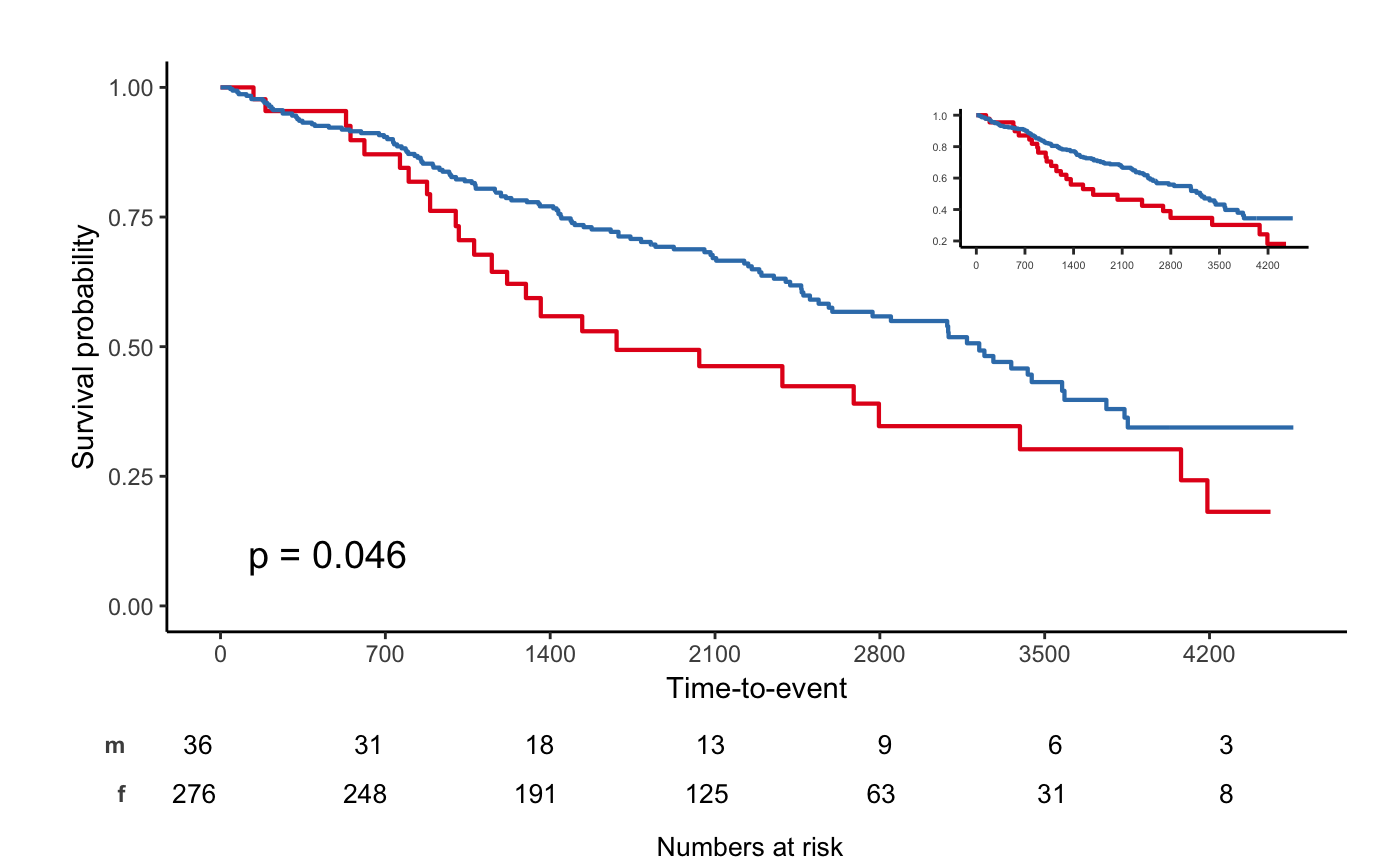
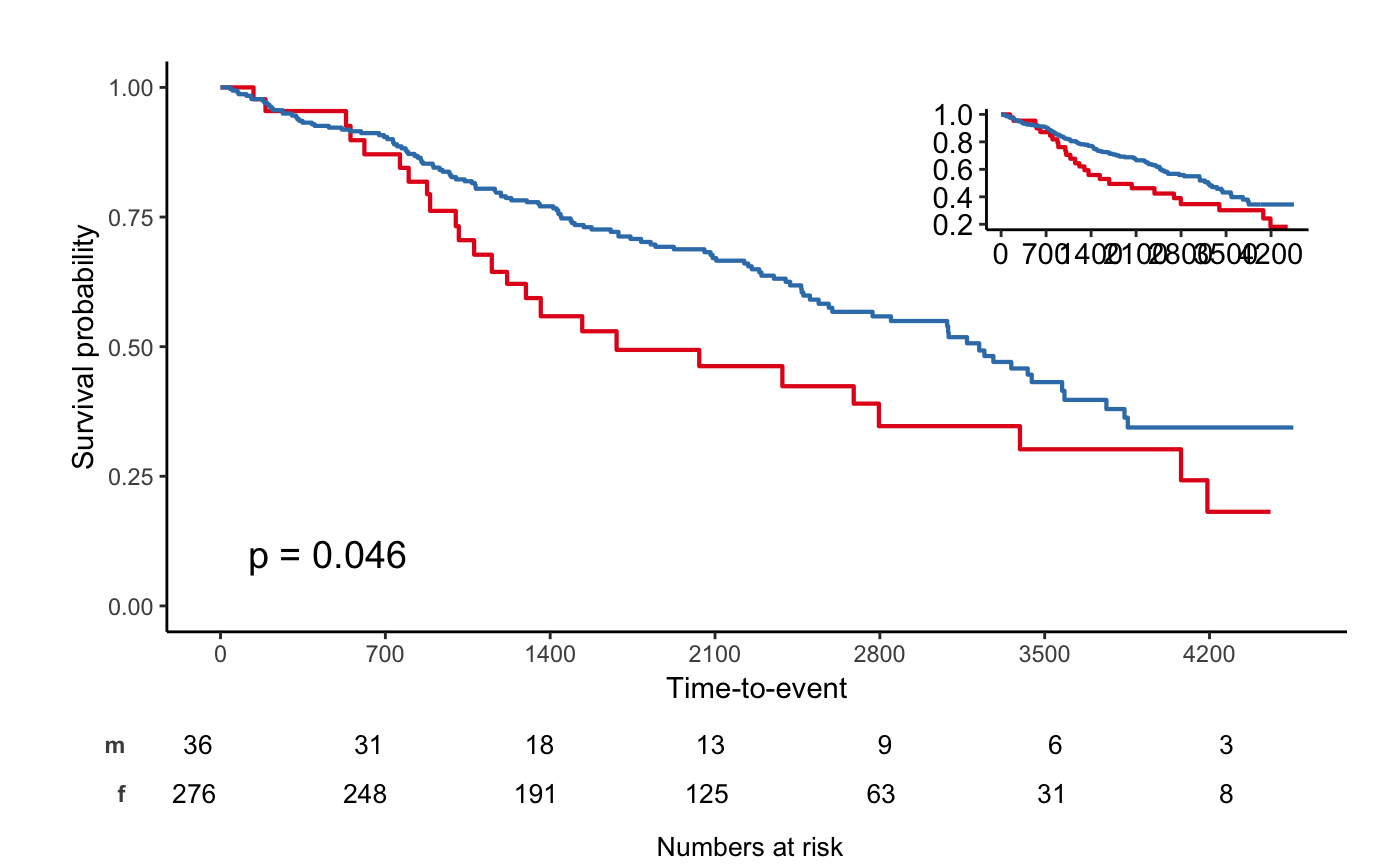
Built site for jskm: 0.5.7@

Changed region(s): [[0.645, 0.1249, 0.9521, 0.3121]]

diff --git a/articles/jskm.html b/articles/jskm.html
@@ -155,7 +155,9 @@ competing risk</p>
 <div id="theme-nejmoa" class="section level3">
 <h3 class="hasAnchor">
 <a href="#theme-nejmoa" class="anchor"></a>Theme Nejmoa</h3>
-<div class="sourceCode" id="cb9"><pre class="sourceCode r"><code class="sourceCode r"><span id="cb9-1"><a href="#cb9-1" tabindex="-1"></a><span class="fu">jskm</span>(fit, <span class="at">theme =</span> <span class="st">"nejm"</span>, <span class="at">nejm.infigure.ratiow =</span> <span class="fl">0.6</span>, <span class="at">nejm.infigure.ratioh =</span> <span class="fl">0.4</span>, <span class="at">nejm.infigure.ylim =</span> <span class="fu">c</span>(<span class="dv">0</span>, <span class="fl">0.7</span>), <span class="at">cumhaz =</span> T, <span class="at">table =</span> T, <span class="at">mark =</span> F, <span class="at">ylab =</span> <span class="st">"Cumulative incidence (%)"</span>, <span class="at">surv.scale =</span> <span class="st">"percent"</span>, <span class="at">pval =</span> T, <span class="at">pval.size =</span> <span class="dv">6</span>, <span class="at">pval.coord =</span> <span class="fu">c</span>(<span class="dv">300</span>, <span class="fl">0.7</span>))</span></code></pre></div>
+<div class="sourceCode" id="cb9"><pre class="sourceCode r"><code class="sourceCode r"><span id="cb9-1"><a href="#cb9-1" tabindex="-1"></a><span class="fu">jskm</span>(fit, <span class="at">theme =</span> <span class="st">"nejm"</span>, <span class="at">nejm.infigure.ratiow =</span> <span class="fl">0.6</span>, <span class="at">nejm.infigure.ratioh =</span> <span class="fl">0.4</span>, <span class="at">nejm.infigure.ylim =</span> <span class="fu">c</span>(<span class="dv">0</span>, <span class="fl">0.7</span>), <span class="at">cumhaz =</span> T, <span class="at">table =</span> T, <span class="at">mark =</span> F, <span class="at">ylab =</span> <span class="st">"Cumulative incidence (%)"</span>, <span class="at">surv.scale =</span> <span class="st">"percent"</span>, <span class="at">pval =</span> T, <span class="at">pval.size =</span> <span class="dv">6</span>, <span class="at">pval.coord =</span> <span class="fu">c</span>(<span class="dv">300</span>, <span class="fl">0.7</span>))</span>
+<span id="cb9-2"><a href="#cb9-2" tabindex="-1"></a><span class="co">#&gt; Scale for y is already present.</span></span>
+<span id="cb9-3"><a href="#cb9-3" tabindex="-1"></a><span class="co">#&gt; Adding another scale for y, which will replace the existing scale.</span></span></code></pre></div>
 <p><img src="jskm_files/figure-html/unnamed-chunk-6-1.png" width="700"></p>
 </div>
 <div id="weighted-kaplan-meier-plot---svykm-object-in-survey-package" class="section level3">
